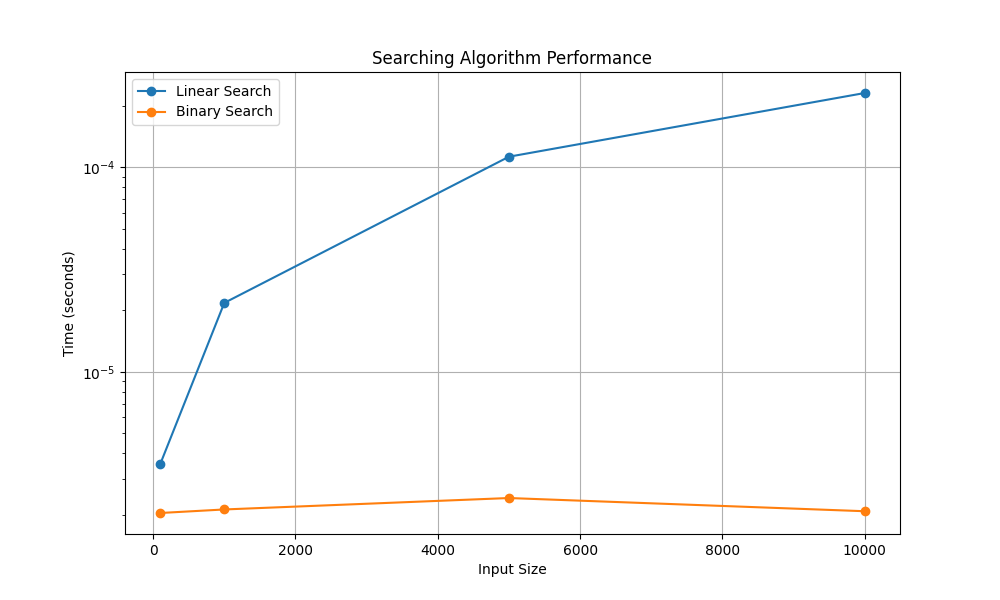
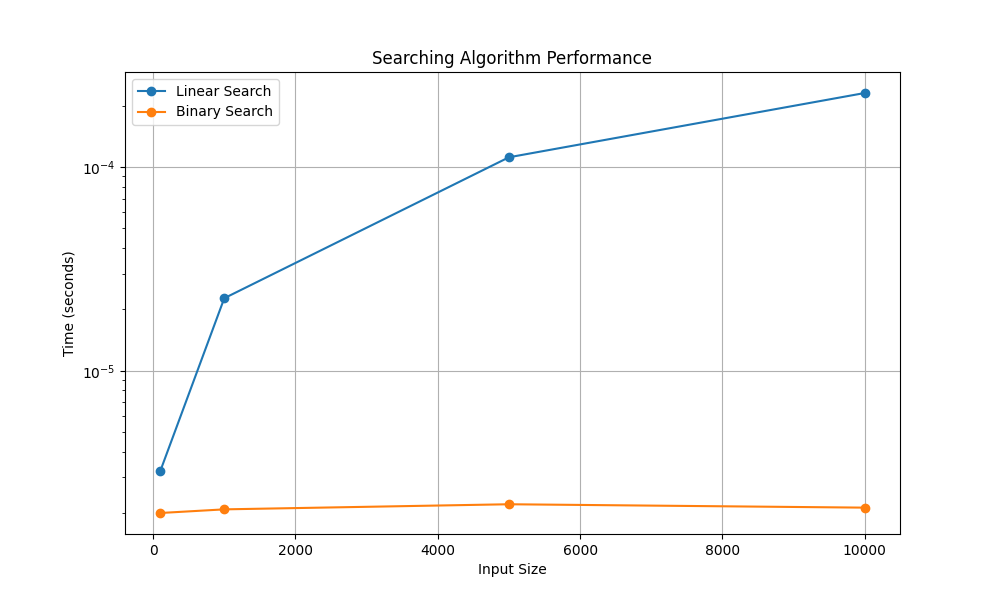
add unified library support for cpp,python

diff --git a/Use_cases/example.cpp b/Use_cases/example.cpp
@@ -1,18 +1,10 @@
-#include <iostream>
-#include "sorting/sorting.h"
-#include "searching/search.h"
+#include "algorithms.h"
 
 int main() {
     int arr[] = {34, 7, 23, 32, 5, 62};
     int n = sizeof(arr) / sizeof(arr[0]);
 
     // Sorting Example
-    std::cout << "Original Array: ";
-    for (int i = 0; i < n; i++) {
-        std::cout << arr[i] << " ";
-    }
-    std::cout << std::endl;
-
     quickSort(arr, 0, n - 1);
 
     std::cout << "Sorted Array using Quick Sort: ";
@@ -25,7 +17,7 @@ int main() {
     int target = 23;
     int index = binarySearch(arr, 0, n - 1, target);
     if (index != -1) {
-        std::cout << "Element " << target << " found at index " << index << " using Binary Search" << std::endl;
+        std::cout << "Element " << target << " found at index " << index << std::endl;
     } else {
         std::cout << "Element " << target << " not found in the array" << std::endl;
     }

diff --git a/Use_cases/example.py b/Use_cases/example.py
@@ -1,0 +1,23 @@
+import sys
+import os
+
+# Add the project root directory to sys.path
+sys.path.insert(0, os.path.abspath(os.path.join(os.path.dirname(__file__), '..')))
+
+from algorithms import SortingAlgorithms, SearchAlgorithms
+
+# Original array to demonstrate sorting and searching
+arr = [34, 7, 23, 32, 5, 62]
+
+# Sorting Example
+print("Original Array:", arr)
+SortingAlgorithms.quick_sort(arr, 0, len(arr) - 1)
+print("Sorted Array using Quick Sort:", arr)
+
+# Searching Example
+target = 23
+index = SearchAlgorithms.binary_search(arr, target)
+if index != -1:
+    print(f"Element {target} found at index {index}")
+else:
+    print(f"Element {target} not found in the array")

diff --git a/algorithms.h b/algorithms.h
@@ -1,0 +1,12 @@
+#ifndef ALGORITHMS_H
+#define ALGORITHMS_H
+
+// Include standard libraries
+#include <iostream>
+#include <vector>
+
+// Include sorting and searching headers
+#include "sorting/sorting.h"
+#include "searching/search.h"
+
+#endif // ALGORITHMS_H

diff --git a/algorithms.py b/algorithms.py
@@ -1,0 +1,7 @@
+# Import all sorting algorithms
+from sorting.sorting import SortingAlgorithms
+
+# Import all searching algorithms
+from searching.search import SearchAlgorithms
+
+# Users can now import this unified module to access all functionalities

diff --git a/sorting/sorting.h b/sorting/sorting.h
@@ -5,4 +5,4 @@ void quickSort(int arr[], int low, int high);
 void mergeSort(int arr[], int l, int r);
 void bubbleSort(int arr[], int n);
 
-#endif
+#endif // SORTING_H

diff --git a/searching/search.h b/searching/search.h
@@ -4,4 +4,4 @@
 int linearSearch(int arr[], int n, int x);
 int binarySearch(int arr[], int l, int r, int x);
 
-#endif
+#endif // SEARCH_H

diff --git a/READme.md b/READme.md
@@ -30,20 +30,20 @@ To install the Python version of the library, you can clone the repository and i
    
 2. **Install the Library**:
     ```sh
-    Copy code
+    
     pip install .
 ### C++ Usage
 To use the C++ version of the library, clone the repository and build it using CMake:
 
 1. **Clone the Repository**:
     ```sh
-    Copy code
+    
     git clone https://github.com/AdrijaDhar/Sort_Search_Library.git
     cd Sort_Search_Library
 
 2. **Build with CMake**:
     ```sh
-    Copy code
+    
     mkdir build
     cd build
     cmake ..
@@ -60,23 +60,23 @@ Run the following scripts from the root directory:
 
 1. ***Sorting Benchmark***:
     ```sh
-    Copy code
+    
     python3 benchmarks/benchmark_sorting.py
 
 2. ***Searching Benchmark*** :
     ```sh
-    Copy code
+    
     python3 benchmarks/benchmark_searching.py
 ### C++
 Make sure you have compiled the C++ programs as mentioned in the C++ Installation Section:
 
 1. ***Sorting Benchmark***:
     ```sh
-    Copy code
+    
     ./benchmark_sorting
 2. ***Searching Benchmark***:
     ```sh
-    Copy code
+    
     ./benchmark_search
 
 Benchmark Results

diff --git a/results/benchmark_compare/separate_sort_result.md b/results/benchmark_compare/separate_sort_result.md
@@ -2,7 +2,7 @@
 
 | Input Size | Quick Sort (sec) | Merge Sort (sec) | Bubble Sort (sec) |
 |------------|------------------|------------------|-------------------|
-| 100 | 0.000059 | 0.000134 | 0.000292 |
-| 1000 | 0.000844 | 0.002624 | 0.040910 |
-| 5000 | 0.004943 | 0.008281 | 0.809155 |
-| 10000 | 0.010230 | 0.017115 | 3.239721 |
+| 100 | 0.000129 | 0.000266 | 0.000668 |
+| 1000 | 0.001688 | 0.003201 | 0.032387 |
+| 5000 | 0.008538 | 0.008248 | 0.794445 |
+| 10000 | 0.010599 | 0.017767 | 3.266017 |

diff --git a/results/benchmark_compare/separate_search_result.md b/results/benchmark_compare/separate_search_result.md
@@ -2,7 +2,7 @@
 
 | Input Size | Linear Search (sec) | Binary Search (sec) |
 |------------|---------------------|---------------------|
-| 100 | 0.000003 | 0.000002 |
-| 1000 | 0.000023 | 0.000002 |
-| 5000 | 0.000112 | 0.000002 |
+| 100 | 0.000004 | 0.000002 |
+| 1000 | 0.000022 | 0.000002 |
+| 5000 | 0.000113 | 0.000002 |
 | 10000 | 0.000231 | 0.000002 |
